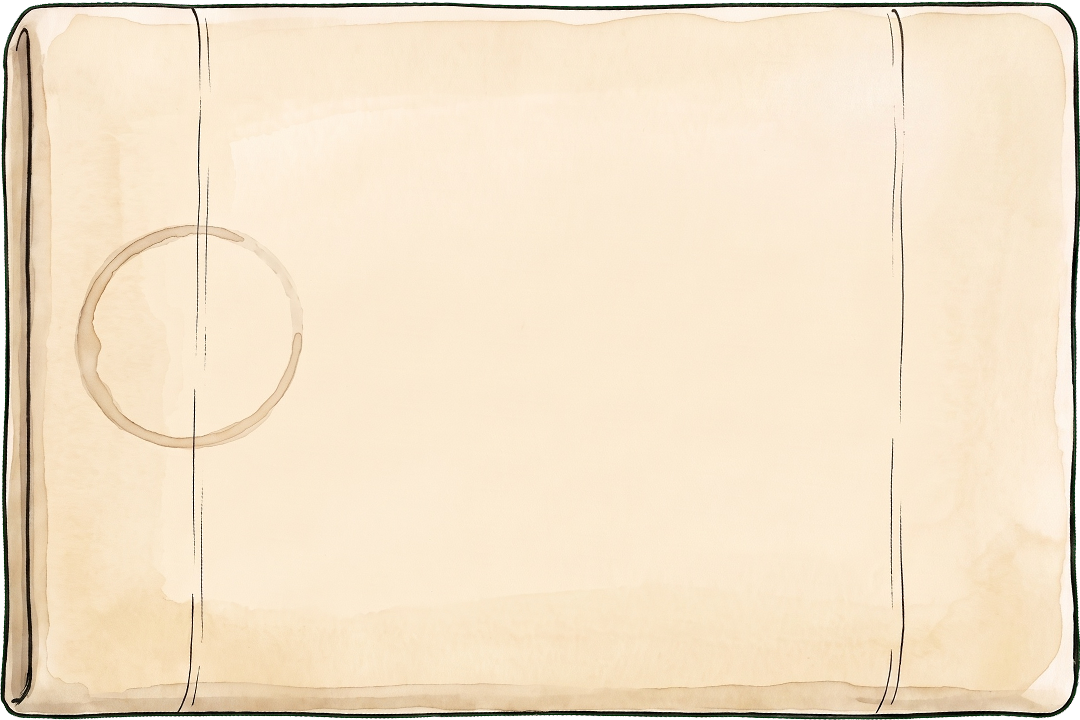
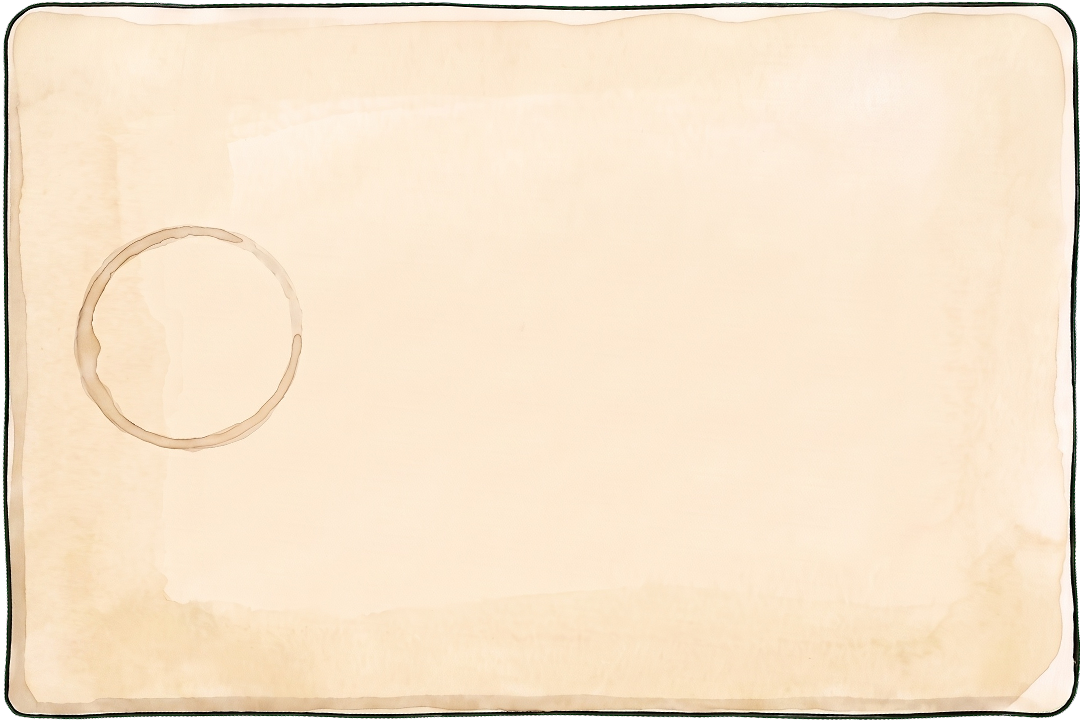
Common room: the letter is an envelope, front and back, the blue-ink address and the talon pinhole

diff --git a/page/common-room.html b/page/common-room.html
@@ -2368,7 +2368,10 @@ var HOME = { KEY: 'lumos.letterHome', READ: 'lumos.letterHome.read', READW: 'lum
   u: 0.705, v: 0.205, dz: 0.03,               /* the books' near face, as fractions of the desk's drawing from its left and top */
   besideU: 0.63,                              /* the new letter's feather, just left of it at the books' foot */
   PX: 9000, ink: '#3a2c20',
-  url: '../assets/layers/letter-desk.png',     /* the drawn address side, squared onto 0.12 x 0.08 m at PX */
+  url: '../assets/layers/letter-desk.png',     /* the envelope's drawn front, squared onto 0.12 x 0.08 m at PX */
+  backUrl: '../assets/layers/letter-desk-seal.png', /* its back, the flaps and the seal, squared the same way */
+  prick: [0.16, 0.131, 0.0083],               /* the talon prick through to the front: the back's (0.84, 0.131) mirrored by the turn, radius as a share of the width */
+  addrInk: '#27408b',                          /* Godric's touch on Q22: their address in ordinary blue ink, against Hogwarts' emerald (PS 3) */
   addrX: 0.3,                                  /* the address starts right of the mug ring, between the creases */
   ADDRESS: ['The Fourth Bed from the Window', 'Boys’ Dormitory', 'Gryffindor Tower', 'Hogwarts'],
   PS: ['Do not let Fred and George near your homework.',                       /* Godric's own, Q10 */
@@ -2405,11 +2408,17 @@ var homeLetter = homeCard(HOME.w, HOME.h, HOME.lean), homeFeather = homeCard(0.0
 var homeNote = homeCard(0.16, 0.21, 0);
 homeNote.shadow.visible = false;
 var homeState = { words: null, front: null, back: null, stage: 0, turn: -1, unfold: -1, shown: '', check: 0 };
-/* letter-desk, Godric's pick of 11 October 2026, 11.35 am (Q18: round 3, the edit of round 2's probe), its slight
-   perspective squared by its four sides; once loaded the address side is redrawn on it */
+/* letter-desk, an envelope since Godric's Q22 (11 October 2026, 12.52 pm): round 4, round 3's front edited plain, the
+   mug ring kept; its slight perspective squared by its four sides (pipeline/square_card.py); once loaded the front is
+   redrawn on it */
 var homeImg = new Image();
 homeImg.onload = function () { homeState.key = null; homeState.check = 0; };
 homeImg.src = HOME.url;
+/* letter-desk-seal, round 1 candidate 1 (Q22): the envelope's back as drawn, four flaps, the thumb-pressed seal and its
+   drip, the talon prick (its pinhole filled so the room does not show through); squared the same way */
+var homeBackImg = new Image();
+homeBackImg.onload = homeImg.onload;
+homeBackImg.src = HOME.backUrl;
 /* Godric's touch on Q18 (11 October 2026, 11.35 am): a slightly deeper contact shadow under the left fold, the
    paper's shadow darkened where it shows under the foot's left end */
 homeLetter.shadow.material.map = (function () {
@@ -2427,7 +2436,18 @@ homeLetter.shadow.material.map = (function () {
 })();
 /* the stand-ins: the packet's address side with its panel, and its back with the flaps and the seal */
 function homePacket(g, W, H, back) {
-  if (!back && homeImg.complete && homeImg.naturalWidth) { g.drawImage(homeImg, 0, 0, W, H); return; }
+  if (!back && homeImg.complete && homeImg.naturalWidth) {
+    g.drawImage(homeImg, 0, 0, W, H);
+    /* Godric's touch on Q23 (11 October 2026, 1.40 pm): the owl's talon prick shows through as a tiny pinhole at the
+       matching corner, a faint dent round a dark hole */
+    var px = W * HOME.prick[0], py = H * HOME.prick[1], r = W * HOME.prick[2];
+    var dent = g.createRadialGradient(px, py, r * 0.6, px, py, r * 2.2);
+    dent.addColorStop(0, 'rgba(120,95,60,0.35)'); dent.addColorStop(1, 'rgba(120,95,60,0)');
+    g.fillStyle = dent; g.beginPath(); g.arc(px, py, r * 2.2, 0, Math.PI * 2); g.fill();
+    g.fillStyle = '#3a2c22'; g.beginPath(); g.arc(px, py, r * 0.75, 0, Math.PI * 2); g.fill();
+    return;
+  }
+  if (back && homeBackImg.complete && homeBackImg.naturalWidth) { g.drawImage(homeBackImg, 0, 0, W, H); return; }
   g.fillStyle = '#e6d9b8'; g.fillRect(0, 0, W, H);
   g.strokeStyle = '#a8966e'; g.lineWidth = W * 0.006;
   g.strokeRect(W * 0.01, H * 0.01, W * 0.98, H * 0.98);
@@ -2445,15 +2465,15 @@ function homeFront(o) {
   homePacket(g, W, H, false);
   var lines = (o.name ? [o.name] : []).concat(HOME.ADDRESS), rnd = mulberry32(7);
   var px = H * 0.085, x = W * (homeImg.naturalWidth ? HOME.addrX : 0.2), y = H * 0.3;
-  /* on the drawing the address keeps inside the right crease (0.82 of its width): a long line shrinks the hand */
-  var room = W * (homeImg.naturalWidth ? 0.82 : 0.95) - x, widest = 0;
+  /* on the drawing the address keeps inside the envelope's right margin (0.9 of its width): a long line shrinks the hand */
+  var room = W * (homeImg.naturalWidth ? 0.9 : 0.95) - x, widest = 0;
   lines.forEach(function (l, i) {
     inkFont(g, i === 0 && o.name ? px * 1.2 : px, F.home);
     widest = Math.max(widest, (g.measureText(l).width + i * W * 0.025) / room);
   });
   if (widest > 1) px /= widest;
   lines.forEach(function (l, i) {
-    write(g, l, x + i * W * 0.025, y, { px: i === 0 && o.name ? px * 1.2 : px, family: F.home, color: HOME.ink, maxW: W * 0.9, slant: 0.01, jitter: 1.5, soft: 1.1, rnd: rnd });
+    write(g, l, x + i * W * 0.025, y, { px: i === 0 && o.name ? px * 1.2 : px, family: F.home, color: HOME.addrInk, maxW: W * 0.9, slant: 0.01, jitter: 1.5, soft: 1.1, rnd: rnd });
     y += (i === 0 && o.name ? px * 1.2 : px) * 1.3;
   });
   return tex(c);
